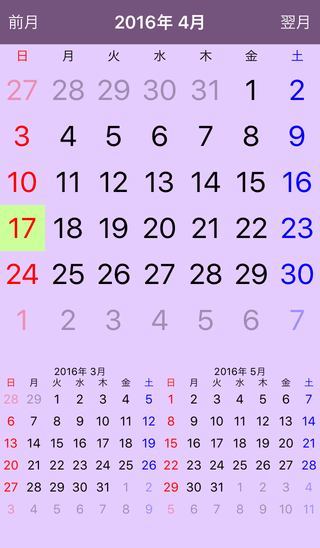
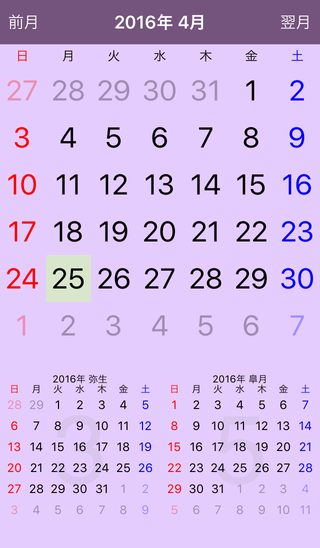
・日にちの色指定コードを実装 ・画面背景に透過した「月」表示のコードを実装 ・和暦の月表示に対応

diff --git a/CalendarKit/SCKCalendarView.m b/CalendarKit/SCKCalendarView.m
@@ -3,7 +3,7 @@
  * FILE:	SCKCalendarView.m
  * DESCRIPTION:	SimpleCalendarKit: Calendar View Class
  * DATE:	Thu, Jan 28 2016
- * UPDATED:	Sat, Apr 16 2016
+ * UPDATED:	Mon, Apr 25 2016
  * AUTHOR:	Kouichi ABE (WALL) / 阿部康一
  * E-MAIL:	kouichi@MagickWorX.COM
  * URL:		http://www.MagickWorX.COM/
@@ -64,6 +64,8 @@ static NSString * const	kHeaderIdentifier   = @"CollectionHeaderIdentifer";
 
 @interface SCKCalendarView () <UICollectionViewDataSource,UICollectionViewDelegate>
 @property (nonatomic,readwrite,getter=isJapanese) BOOL	japanese;
+@property (nonatomic,assign,readwrite) NSInteger	year;
+@property (nonatomic,assign,readwrite) NSInteger	month;
 @property (nonatomic,strong) UICollectionView *	collectionView;
 @property (nonatomic,strong) NSDateFormatter *	dateFormatter;
 @property (nonatomic,strong) NSCalendar *	calendar;
@@ -71,14 +73,12 @@ static NSString * const	kHeaderIdentifier   = @"CollectionHeaderIdentifer";
 @property (nonatomic,strong) NSDate *		firstDateOfMonth;
 @property (nonatomic,strong) NSDate *		dateOfToday;
 @property (nonatomic,assign) NSRange		daysInMonth;
-@property (nonatomic,assign) NSInteger		year;
-@property (nonatomic,assign) NSInteger		month;
-@property (nonatomic,assign) NSInteger		day;
 @property (nonatomic,assign) CGFloat		titleHeight;
 @property (nonatomic,assign) CGFloat		wdayHeight;
 @property (nonatomic,assign) CGFloat		mdayHeight;
 @property (nonatomic,strong) NSArray *		nameOfDayOfWeek;
 @property (nonatomic,strong) NSArray *		nameOfMonth;
+@property (nonatomic,strong) CATextLayer *	textLayer;
 @end
 
 @implementation SCKCalendarView
@@ -89,11 +89,7 @@ static NSString * const	kHeaderIdentifier   = @"CollectionHeaderIdentifer";
   if (self) {
     self.autoresizesSubviews	= YES;
     self.autoresizingMask	= UIViewAutoresizingFlexibleWidth
-				| UIViewAutoresizingFlexibleHeight
-				| UIViewAutoresizingFlexibleLeftMargin
-				| UIViewAutoresizingFlexibleRightMargin
-				| UIViewAutoresizingFlexibleTopMargin
-				| UIViewAutoresizingFlexibleBottomMargin;
+				| UIViewAutoresizingFlexibleHeight;
 
     UICollectionViewFlowLayout * layout;
     layout = [UICollectionViewFlowLayout new];
@@ -115,31 +111,11 @@ static NSString * const	kHeaderIdentifier   = @"CollectionHeaderIdentifer";
     [self addSubview:collectionView];
     self.collectionView = collectionView;
 
-    NSDateFormatter * dateFormatter = [NSDateFormatter new];
-    dateFormatter.dateFormat = @"d";
-    self.dateFormatter = dateFormatter;
+    [collectionView registerClass:[SCKCollectionHeaderView class]
+		    forSupplementaryViewOfKind:UICollectionElementKindSectionHeader
+		    withReuseIdentifier:kHeaderIdentifier];
 
-    self.calendar = [NSCalendar currentCalendar];
-
-    NSString * lang = [[NSLocale preferredLanguages][0] substringToIndex:2];
-    self.japanese   = [lang isEqualToString:@"ja"];
-    if (self.isJapanese) {
-      self.nameOfDayOfWeek = @[ @"日", @"月", @"火", @"水", @"木", @"金", @"土" ];
-      self.nameOfMonth = @[
-	@"睦月", @"如月", @"弥生", @"卯月", @"皐月", @"水無月",
-	@"文月", @"葉月", @"長月", @"神無月", @"霜月", @"師走"
-      ];
-    }
-    else {
-      self.nameOfDayOfWeek = @[ @"Sun", @"Mon", @"Tue", @"Wed", @"Thu", @"Fri", @"Sat" ];
-      self.nameOfMonth = @[
-	@"January", @"February", @"March", @"April", @"May", @"June",
-	@"July", @"August", @"September", @"October", @"November", @"December"
-      ];
-    }
-
-    _showsToday  = NO;
-    _titleHidden = NO;
+    [self prepareForCalendar];
   }
   return self;
 }
@@ -148,12 +124,14 @@ static NSString * const	kHeaderIdentifier   = @"CollectionHeaderIdentifer";
 {
   [super didMoveToSuperview];
 
-  self.dateOfToday  = [NSDate date];
-  self.selectedDate = _dateOfToday;
+  [self update];
+}
 
-  [self.collectionView registerClass:[SCKCollectionHeaderView class]
-		       forSupplementaryViewOfKind:UICollectionElementKindSectionHeader
-		       withReuseIdentifier:kHeaderIdentifier];
+-(void)layoutSubviews
+{
+  [super layoutSubviews];
+
+  self.collectionView.frame = self.bounds;
 
   CGFloat height = self.collectionView.frame.size.height;
   if (_titleHidden) {
@@ -173,6 +151,74 @@ static NSString * const	kHeaderIdentifier   = @"CollectionHeaderIdentifer";
 
 /*****************************************************************************/
 
+-(void)prepareForCalendar
+{
+  NSDateFormatter * dateFormatter = [NSDateFormatter new];
+  dateFormatter.dateFormat = @"d";
+  self.dateFormatter = dateFormatter;
+
+  self.calendar = [NSCalendar currentCalendar];
+
+  NSString * lang = [[NSLocale preferredLanguages][0] substringToIndex:2];
+  self.japanese   = [lang isEqualToString:@"ja"];
+  if (self.isJapanese) {
+    self.nameOfDayOfWeek = @[ @"日", @"月", @"火", @"水", @"木", @"金", @"土" ];
+    self.nameOfMonth = @[
+	@"睦月", @"如月", @"弥生", @"卯月", @"皐月", @"水無月",
+	@"文月", @"葉月", @"長月", @"神無月", @"霜月", @"師走"
+    ];
+  }
+  else {
+    self.nameOfDayOfWeek = @[ @"Sun", @"Mon", @"Tue", @"Wed", @"Thu", @"Fri", @"Sat" ];
+    self.nameOfMonth = @[
+	@"January", @"February", @"March", @"April", @"May", @"June",
+	@"July", @"August", @"September", @"October", @"November", @"December"
+    ];
+  }
+
+  _showsToday    = NO;
+  _showsMonth    = NO;
+  _prefersWareki = NO;
+  _titleHidden   = NO;
+
+  self.sundayColor   = [UIColor redColor];
+  self.saturdayColor = [UIColor blueColor];
+  self.weekdayColor  = [UIColor blackColor];
+  self.todayColor    = [UIColor colorWithRed:0.8f green:1.0f blue:0.6f
+				alpha:1.0f];
+  self.titleColor    = [UIColor blackColor];
+}
+
+#pragma mark - override setter
+-(void)setShowsMonth:(BOOL)showsMonth
+{
+  if (showsMonth) {
+    if (_textLayer == nil) {
+      CATextLayer * textLayer = [CATextLayer new];
+      CGRect   bounds = self.collectionView.bounds;
+      CGFloat   width = bounds.size.width;
+      CGFloat  height = bounds.size.height;
+      CGFloat      dx = floorf(width * 0.1f);
+      CGFloat      dy = floorf(height * 0.1f);
+      textLayer.frame = CGRectInset(bounds, dx, dy);
+      textLayer.fontSize = floorf(textLayer.frame.size.height * 0.8f);
+      textLayer.opacity = 0.20f;
+      textLayer.foregroundColor = [UIColor lightGrayColor].CGColor;
+      textLayer.alignmentMode = kCAAlignmentCenter;
+      textLayer.contentsScale = [UIScreen mainScreen].scale;
+      textLayer.zPosition = -100.0;
+      [self.collectionView.layer addSublayer:textLayer];
+      self.textLayer = textLayer;
+    }
+    self.textLayer.string = [NSString stringWithFormat:@"%zd", _month];
+  }
+  self.textLayer.hidden = !showsMonth;
+
+  _showsMonth = showsMonth;
+}
+
+/*****************************************************************************/
+
 #pragma mark - override setter
 -(void)setSelectedDate:(NSDate *)selectedDate
 {
@@ -187,7 +233,6 @@ static NSString * const	kHeaderIdentifier   = @"CollectionHeaderIdentifer";
 
     _year  = dateComponents.year;
     _month = dateComponents.month;
-    _day   = dateComponents.day;
 
     dateComponents.day = 1;
     self.firstDateOfMonth = [self.calendar dateFromComponents:dateComponents];
@@ -198,6 +243,10 @@ static NSString * const	kHeaderIdentifier   = @"CollectionHeaderIdentifer";
 				      forDate:selectedDate];
 
     [self.collectionView reloadData];
+
+    if (_showsMonth) {
+      self.textLayer.string = [NSString stringWithFormat:@"%zd", _month];
+    }
 
     if ([_delegate respondsToSelector:@selector(calendarView:didSetYear:month:)]) {
       [_delegate calendarView:self didSetYear:_year month:_month];
@@ -241,6 +290,24 @@ static NSString * const	kHeaderIdentifier   = @"CollectionHeaderIdentifer";
 -(void)showsNextMonth
 {
   self.selectedDate = [self dateOfNextMonth];
+}
+
+#pragma mark - public method
+-(void)showsYear:(NSInteger)year month:(NSInteger)month
+{
+  NSDateComponents * dateComponents = [NSDateComponents new];
+  dateComponents.year  = year;
+  dateComponents.month = month;
+  dateComponents.day   = 1;
+  self.selectedDate = [self.calendar dateFromComponents:dateComponents];
+}
+
+#pragma mark - public method
+-(void)update
+{
+  self.dateOfToday = [NSDate date];
+
+  [self showsThisMonth];
 }
 
 /*****************************************************************************/
@@ -311,11 +378,11 @@ static NSString * const	kHeaderIdentifier   = @"CollectionHeaderIdentifer";
   NSInteger section = indexPath.section;
   NSInteger item    = indexPath.item;
 
-  UIColor * textColor = [UIColor blackColor];
+  UIColor * textColor;
   switch (item % 7) {
-     case 0: textColor = [UIColor redColor];   break; // Sunday
-     case 6: textColor = [UIColor blueColor];  break; // Saturday
-    default: textColor = [UIColor blackColor]; break; // Weekday
+     case 0: textColor = self.sundayColor;   break; // Sunday
+     case 6: textColor = self.saturdayColor; break; // Saturday
+    default: textColor = self.weekdayColor;  break; // Weekday
   }
 
   SCKDayCollectionCell * cell;
@@ -346,7 +413,7 @@ static NSString * const	kHeaderIdentifier   = @"CollectionHeaderIdentifer";
 		  toUnitGranularity:unitFlags];
 	  if (result == NSOrderedSame) {
 	    cell.contentView.backgroundColor =
-		[UIColor colorWithRed:0.8f green:1.0f blue:0.6f alpha:1.0f];
+		[self.todayColor colorWithAlphaComponent:0.5f];
 	  }
 	}
 
@@ -387,13 +454,20 @@ static NSString * const	kHeaderIdentifier   = @"CollectionHeaderIdentifer";
 
   NSString * text;
   if (self.isJapanese) {
-    text = [NSString stringWithFormat:@"%zd年%2zd月", _year, _month];
+    if (_prefersWareki) {
+      text = [NSString stringWithFormat:@"%zd年 %@",
+		       _year, self.nameOfMonth[_month - 1]];
+    }
+    else {
+      text = [NSString stringWithFormat:@"%zd年 %zd月", _year, _month];
+    }
   }
   else {
     text = [NSString stringWithFormat:@"%@ %zd",
 		     self.nameOfMonth[_month - 1], _year];
   }
   headerView.textLabel.text = text;
+  headerView.textLabel.textColor = self.titleColor;
 
   return headerView;
 }

diff --git a/CalendarKitDemo/RootViewController.m b/CalendarKitDemo/RootViewController.m
@@ -3,7 +3,7 @@
  * FILE:	RootViewController.m
  * DESCRIPTION:	CalendarKitDemo: Application Root View Controller
  * DATE:	Thu, Jan 28 2016
- * UPDATED:	Sat, Apr 16 2016
+ * UPDATED:	Mon, Apr 25 2016
  * AUTHOR:	Kouichi ABE (WALL) / 阿部康一
  * E-MAIL:	kouichi@MagickWorX.COM
  * URL:		http://www.MagickWorX.COM/
@@ -43,7 +43,7 @@
 #import <CalendarKit/CalendarKit.h>
 #import "RootViewController.h"
 
-@interface RootViewController () <CKCalendarViewDelegate>
+@interface RootViewController () <SCKCalendarViewDelegate>
 @property (nonatomic,strong) SCKCalendarView *	calendarView;	// 今月
 @property (nonatomic,strong) SCKCalendarView *	prevCalView;	// 先月
 @property (nonatomic,strong) SCKCalendarView *	nextCalView;	// 来月
@@ -74,23 +74,28 @@
   CGFloat width  = self.view.bounds.size.width;
   CGFloat height = self.view.bounds.size.height;
 
-  CGFloat w = floorf(width * 0.5f);
+  CGFloat w = floorf(width * 0.5f) - 8.0f;
   CGFloat h = w;
-  CGFloat x = width - w;
+  CGFloat x = width - (w + 4.0f);
   CGFloat y = height - h - 22.0f;
 
   SCKCalendarView * calendarView;
   calendarView = [[SCKCalendarView alloc] initWithFrame:CGRectMake(x, y, w, h)];
+  calendarView.showsMonth = YES;
+  calendarView.prefersWareki = YES;
   [self.view addSubview:calendarView];
   [calendarView showsNextMonth];
   self.nextCalView = calendarView;
 
-  x = 0.0f;
+  x = 4.0f;
   calendarView = [[SCKCalendarView alloc] initWithFrame:CGRectMake(x, y, w, h)];
+  calendarView.showsMonth = YES;
+  calendarView.prefersWareki = YES;
   [self.view addSubview:calendarView];
   [calendarView showsPreviousMonth];
   self.prevCalView = calendarView;
 
+  x = 0.0f;
   y = 0.0f;
   h = height - h - 44.0f;
   w = width;
@@ -175,7 +180,7 @@
 
 /*****************************************************************************/
 
-#pragma mark - CKCalendarViewDelegate (optional)
+#pragma mark - SCKCalendarViewDelegate (optional)
 -(void)calendarView:(SCKCalendarView *)calendarView
 	didSetYear:(NSInteger)year month:(NSInteger)month
 {
@@ -183,7 +188,7 @@
   [self.titleButton setTitle:self.title forState:UIControlStateNormal];
 }
 
-#pragma mark - CKCalendarViewDelegate (optional)
+#pragma mark - SCKCalendarViewDelegate (optional)
 -(void)calendarView:(SCKCalendarView *)calendarView didSelectDate:(NSDate *)date{
   @autoreleasepool {
     NSString * message = [NSDateFormatter localizedStringFromDate:date

diff --git a/CalendarKit/SCKCalendarView.h b/CalendarKit/SCKCalendarView.h
@@ -3,7 +3,7 @@
  * FILE:	SCKCalendarView.h
  * DESCRIPTION:	SimpleCalendarKit: Calendar View Class
  * DATE:	Thu, Jan 28 2016
- * UPDATED:	Sat, Apr 16 2016
+ * UPDATED:	Mon, Apr 25 2016
  * AUTHOR:	Kouichi ABE (WALL) / 阿部康一
  * E-MAIL:	kouichi@MagickWorX.COM
  * URL:		http://www.MagickWorX.COM/
@@ -45,7 +45,7 @@
 
 @class	SCKCalendarView;
 
-@protocol CKCalendarViewDelegate <NSObject>
+@protocol SCKCalendarViewDelegate <NSObject>
 @optional
 -(void)calendarView:(SCKCalendarView *)calendarView didSetYear:(NSInteger)year month:(NSInteger)month;
 -(void)calendarView:(SCKCalendarView *)calendarView didSelectDate:(NSDate *)date;
@@ -53,13 +53,25 @@
 
 @interface SCKCalendarView : UIView
 
-@property (nonatomic,weak) id <CKCalendarViewDelegate>	delegate;
+@property (nonatomic,weak) id <SCKCalendarViewDelegate>	delegate;
 @property (nonatomic,readonly,getter=isJapanese) BOOL	japanese;
+@property (nonatomic,assign,readonly) NSInteger		year;
+@property (nonatomic,assign,readonly) NSInteger		month;
 @property (nonatomic,assign) BOOL /* 今日が目立つ */	showsToday;
+@property (nonatomic,assign) BOOL /* 透過型"月"表示 */	showsMonth;
+@property (nonatomic,assign) BOOL /* 和暦の月名称 */	prefersWareki;
 @property (nonatomic,assign,getter=isTitleHidden) BOOL	titleHidden;
+@property (nonatomic,strong) UIColor * /* 休日祝祭日*/	sundayColor;
+@property (nonatomic,strong) UIColor *			saturdayColor;
+@property (nonatomic,strong) UIColor *			weekdayColor;
+@property (nonatomic,strong) UIColor *			todayColor;
+@property (nonatomic,strong) UIColor * /* 年月領域 */	titleColor;
 
 -(void)showsThisMonth;
 -(void)showsPreviousMonth;
 -(void)showsNextMonth;
+
+-(void)showsYear:(NSInteger)year month:(NSInteger)month;
+-(void)update;
 
 @end

diff --git a/README.md b/README.md
@@ -8,8 +8,10 @@ UICollectionView を利用したカレンダーの基本フレームワーク。
 Features
 ========
 
- - 今月／前月／翌月表示用メソッド実装済み
+ - 今月／前月／翌月表示用メソッドあり
  - 日にちのタップを delegate を利用して NSDate 型で取得可能
+ - 背面に透過した「月」表示が可能
+ - 日にちの色指定用 property が利用可能
 
 Requirements
 ============
